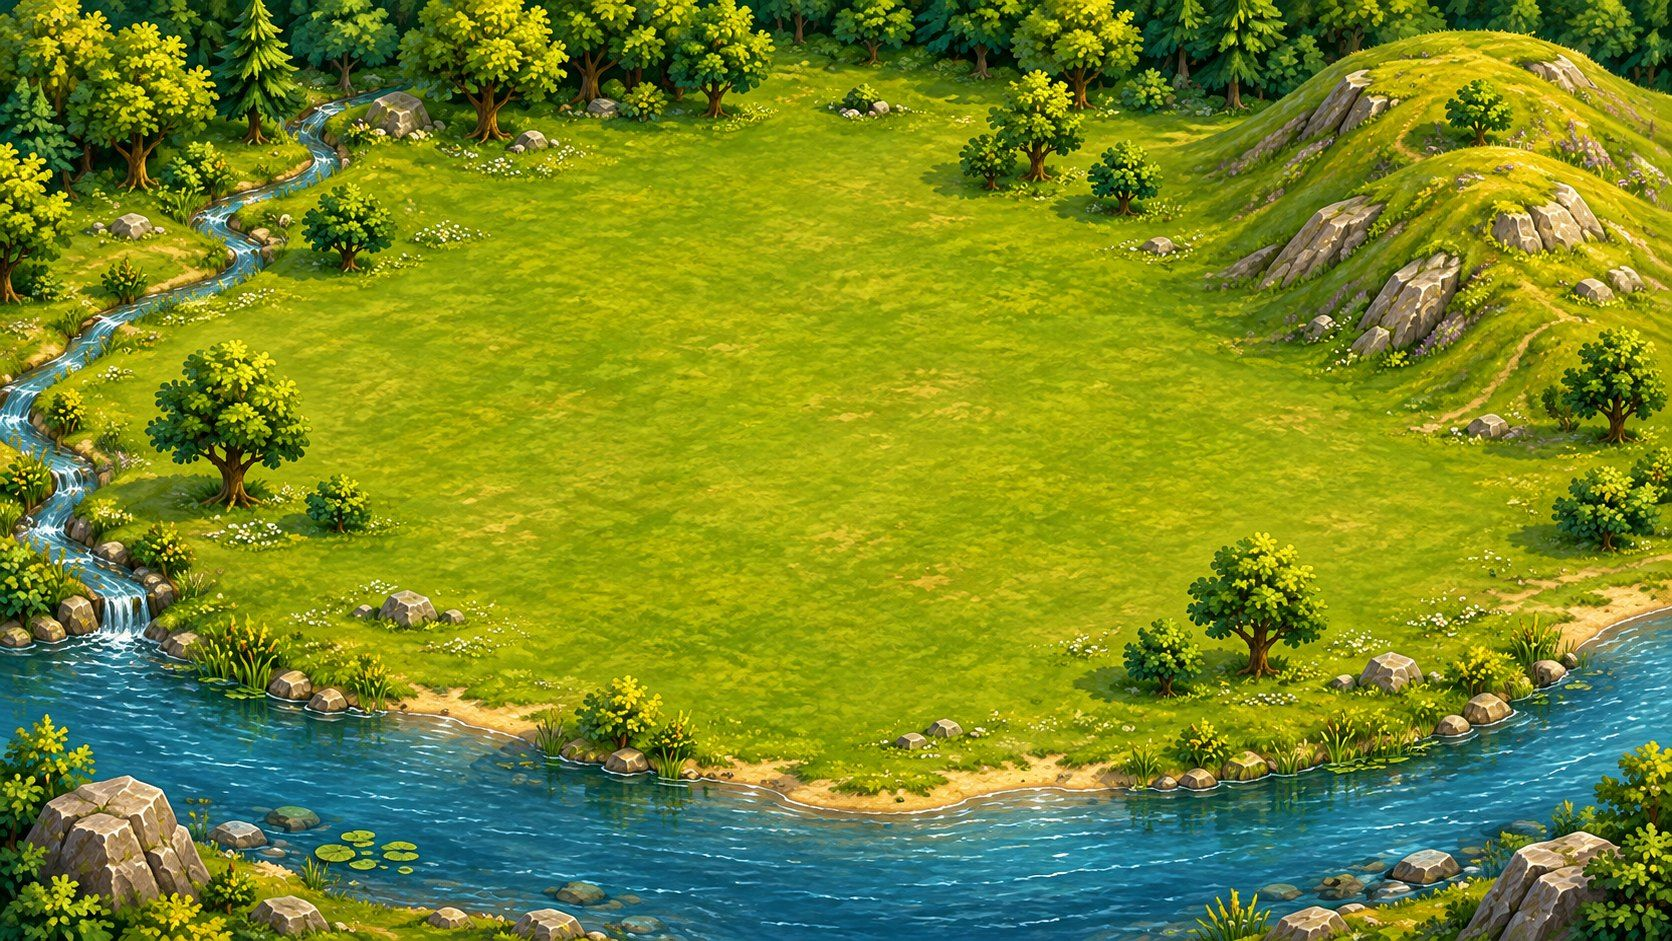
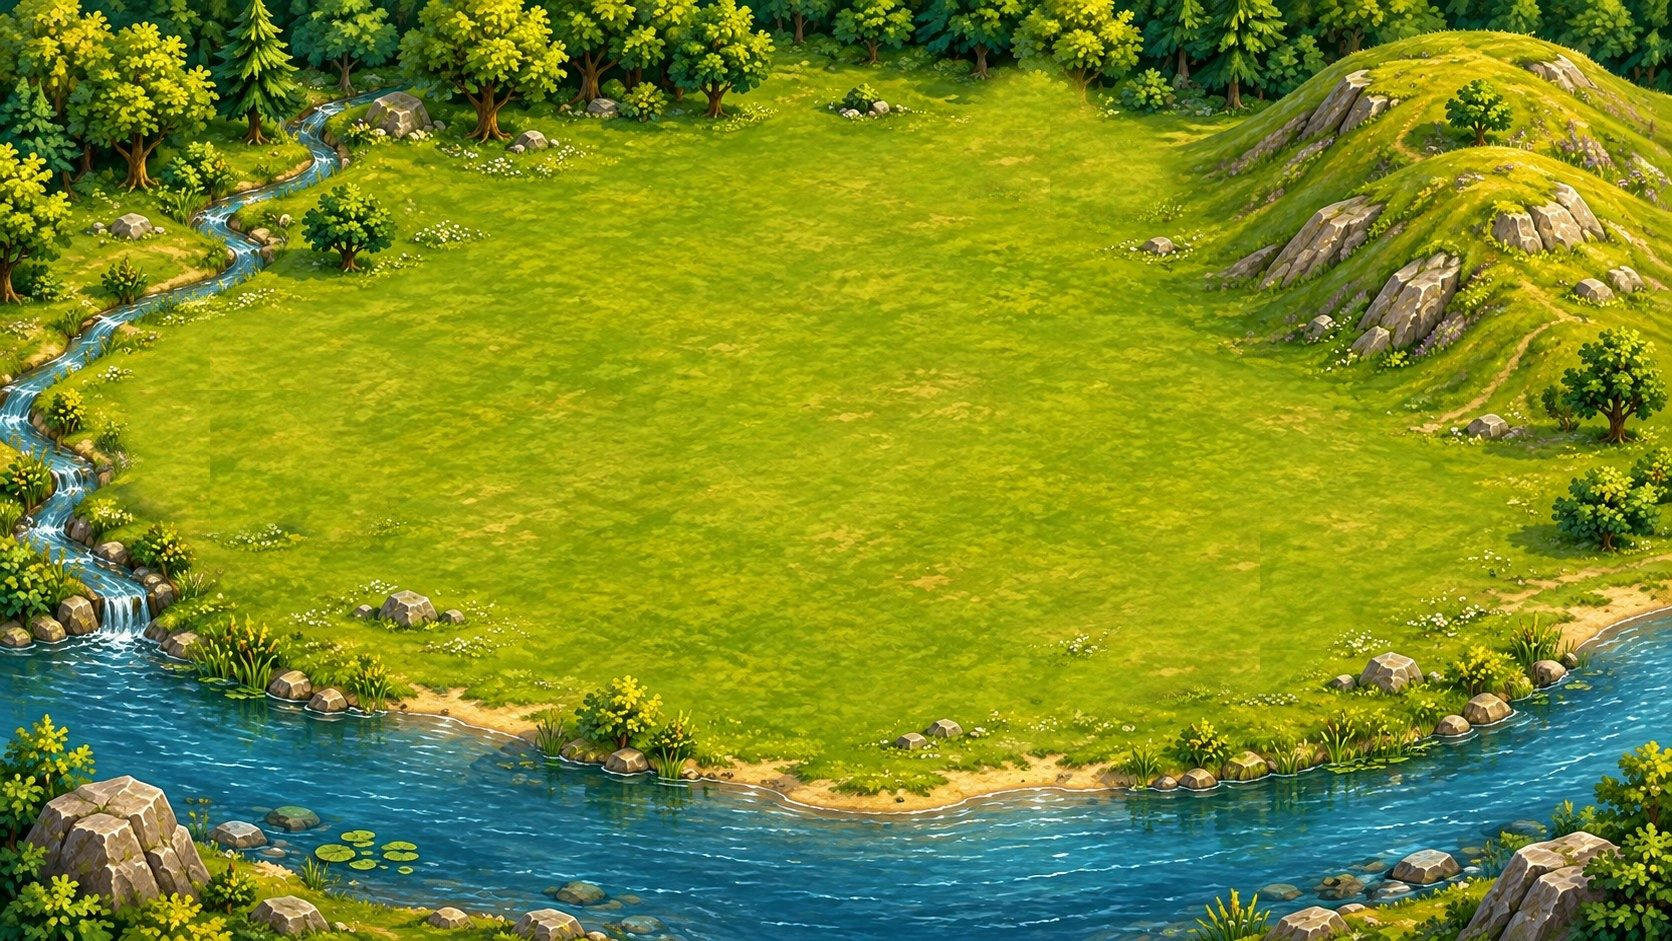
Épületek a talaj sarkához igazítva (nem vágja le a kerítést), fák kiszedve a 3. korszak telkéről, telek feljebb a folyótól
Claude-Session: https://claude.ai/code/session_01TrxMZhgVc5kkxwtpbvR8se

diff --git a/e03.html b/e03.html
@@ -429,7 +429,7 @@ const EN_DATA = {"res": {"penz": "Money", "termeny": "Food", "tudas": "Knowledge
 const tr = x => LANG === 'en' && EN[x] != null ? EN[x] : x;
 const trf = (x, ...a) => tr(x).replace(/\{(\d)\}/g, (_, i) => a[i]);
 // ---------- alapadatok ----------
-const BGW = 1672, BGH = 941, TW = 120, TH = 60, N = 12, OX = 836, OY = 120;
+const BGW = 1672, BGH = 941, TW = 120, TH = 60, N = 12, OX = 836, OY = 95;
 const SAVE_KEY = 'panelvar-e03-v1';
 const GRASS = 8; // ennyiszer lehet egy legelőt lelegeltetni, aztán kimerül
 const TERM_CAP = 1000, TUDAS_CAP = 30, TUDAS_EVERY = 30, WINTER_LEN = 24 * 3600;
@@ -680,7 +680,7 @@ function loadOne(n, tries = 0) {
     const im = new Image();
     im.onload = () => { if (im.naturalWidth) { IMG[n.replace(/\.(png|jpg|svg)$/, '')] = im; delete MASK[n.replace(/\.(png|jpg|svg)$/, '')]; roadCache = null; dirtPat = null; } res(); };
     im.onerror = () => { if (tries < 3) setTimeout(() => loadOne(n, tries + 1).then(res), 500 * (tries + 1)); else res(); };
-    im.src = 'img/' + n + '?v=2611082' + (tries ? '&r=' + tries + '-' + Date.now() : '');
+    im.src = 'img/' + n + '?v=2611083' + (tries ? '&r=' + tries + '-' + Date.now() : '');
   });
 }
 function loadImgs() { return Promise.all(imgNames.map(n => loadOne(n))); }
@@ -696,7 +696,12 @@ function maskFor(name) {
     let minX = c.width, maxX = 0;
     for (let px = 0; px < c.width; px++) for (let py = 0; py < c.height; py += 2) if (A(px, py)) { if (px < minX) minX = px; if (px > maxX) maxX = px; }
     const topIn = (x0, x1) => { let best = c.height; for (let px = x0; px <= x1; px++) for (let py = 0; py < c.height; py++) if (A(px, py)) { if (py < best) best = py; break; } return best; };
-    const lY = topIn(minX, Math.min(c.width - 1, minX + 3)), rY = topIn(Math.max(0, maxX - 3), maxX);
+    const lY0 = topIn(minX, Math.min(c.width - 1, minX + 3)), rY0 = topIn(Math.max(0, maxX - 3), maxX);
+    // a talaj sarkait az alsó kontúrból becsüljük, mert a sarkon álló kerítés vagy zászló felfelé húzná
+    const botAt = x => { for (let y = c.height - 1; y >= 0; y--) if (A(x, y)) return y; return -1; };
+    const est = (from, to, dir) => { const v = []; for (let x = from; x <= to; x++) { const b = botAt(x); if (b >= 0) v.push(b - 0.5 * (dir > 0 ? x - minX : maxX - x)); } v.sort((p, q) => p - q); return v.length > 6 ? v[v.length >> 1] : null; };
+    const span = maxX - minX, gl = est(minX + Math.round(span * 0.04), minX + Math.round(span * 0.22), 1), gr = est(maxX - Math.round(span * 0.22), maxX - Math.round(span * 0.04), -1);
+    const lY = gl != null ? gl : lY0, rY = gr != null ? gr : rY0;
     m.minX = minX; m.maxX = maxX; m.vY = (lY + rY) / 2; m.lY = lY; m.rY = rY;
   }
   MASK[name] = m; return m;
@@ -2881,7 +2886,7 @@ const SB_URL = 'https://eaeczgphpslppqyrnaos.supabase.co', SB_KEY = 'sb_publisha
 const ONLINE = /github\.io$/.test(location.hostname) || /[?&]online/.test(location.search);
 const NET = { on: false, sb: null, me: null, megye: null, real: [], names: {}, towns: {}, walls: {}, myWall: [] };
 window.__NET = NET;
-const ERA_MAP = [{ bg: 'alapterkep.jpg', ox: 836, oy: 212 }, { bg: 'e01_alapterkep.jpg', ox: 776, oy: 332 }, { bg: 'e02_alapterkep.jpg', ox: 776, oy: 305 }, { bg: 'e03_alapterkep.jpg', ox: 836, oy: 120, n: 12 }];
+const ERA_MAP = [{ bg: 'alapterkep.jpg', ox: 836, oy: 212 }, { bg: 'e01_alapterkep.jpg', ox: 776, oy: 332 }, { bg: 'e02_alapterkep.jpg', ox: 776, oy: 305 }, { bg: 'e03_alapterkep.jpg', ox: 836, oy: 95, n: 12 }];
 const SYNC_HASH = 'panelvar-sync-hash', SYNC_AT = 'panelvar-sync-at';
 const syncKeys = () => { const out = []; try { for (let k = 0; k < localStorage.length; k++) { const key = localStorage.key(k); if (/^panelvar-/.test(key) && !/^panelvar-sync-/.test(key) && key !== 'panelvar-lang') out.push(key); } } catch (e) {} return out; };
 const hashStr = s => { let h = 2166136261; for (let k = 0; k < s.length; k++) { h ^= s.charCodeAt(k); h = Math.imul(h, 16777619); } return (h >>> 0).toString(36) + ':' + s.length; };
@@ -3022,14 +3027,17 @@ async function netLoadWall(id) {
 }
 // egy másik játékos városának rajza, a saját korszakának térképén
 const RIMG = {};
-function rimg(name, cb) { if (RIMG[name]) { if (RIMG[name].complete) cb(RIMG[name]); else RIMG[name].addEventListener('load', () => cb(RIMG[name])); return; } const im = new Image(); im.onload = () => cb(im); im.src = 'img/' + name + '?v=2611082'; RIMG[name] = im; }
+function rimg(name, cb) { if (RIMG[name]) { if (RIMG[name].complete) cb(RIMG[name]); else RIMG[name].addEventListener('load', () => cb(RIMG[name])); return; } const im = new Image(); im.onload = () => cb(im); im.src = 'img/' + name + '?v=2611083'; RIMG[name] = im; }
 function rmask(im) {
   if (im._m) return im._m; const c = document.createElement('canvas'); c.width = im.naturalWidth; c.height = im.naturalHeight; const g = c.getContext('2d'); g.drawImage(im, 0, 0);
   let d = null; try { d = g.getImageData(0, 0, c.width, c.height).data; } catch (e) {}
   const m = { w: c.width, minX: 0, maxX: c.width, lY: c.height * .75, rY: c.height * .75 };
   if (d) { const A = (x, y) => d[(y * c.width + x) * 4 + 3] > 60; let mn = c.width, mx = 0; for (let x = 0; x < c.width; x++) for (let y = 0; y < c.height; y += 2) if (A(x, y)) { if (x < mn) mn = x; if (x > mx) mx = x; }
     const top = (x0, x1) => { let b = c.height; for (let x = x0; x <= x1; x++) for (let y = 0; y < c.height; y++) if (A(x, y)) { if (y < b) b = y; break; } return b; };
-    m.minX = mn; m.maxX = mx; m.lY = top(mn, Math.min(c.width - 1, mn + 3)); m.rY = top(Math.max(0, mx - 3), mx); }
+    m.minX = mn; m.maxX = mx; m.lY = top(mn, Math.min(c.width - 1, mn + 3)); m.rY = top(Math.max(0, mx - 3), mx);
+    const botAt = x => { for (let y = c.height - 1; y >= 0; y--) if (A(x, y)) return y; return -1; };
+    const est = (from, to, dir) => { const v = []; for (let x = from; x <= to; x++) { const b = botAt(x); if (b >= 0) v.push(b - 0.5 * (dir > 0 ? x - mn : mx - x)); } v.sort((p, q) => p - q); return v.length > 6 ? v[v.length >> 1] : null; };
+    const sp = mx - mn, gl = est(mn + Math.round(sp * 0.04), mn + Math.round(sp * 0.22), 1), gr = est(mx - Math.round(sp * 0.22), mx - Math.round(sp * 0.04), -1); if (gl != null) m.lY = gl; if (gr != null) m.rY = gr; }
   return (im._m = m);
 }
 function renderRemoteTown(cv, town) {

diff --git a/e02.html b/e02.html
@@ -652,7 +652,7 @@ function loadOne(n, tries = 0) {
     const im = new Image();
     im.onload = () => { if (im.naturalWidth) { IMG[n.replace(/\.(png|jpg|svg)$/, '')] = im; delete MASK[n.replace(/\.(png|jpg|svg)$/, '')]; roadCache = null; dirtPat = null; } res(); };
     im.onerror = () => { if (tries < 3) setTimeout(() => loadOne(n, tries + 1).then(res), 500 * (tries + 1)); else res(); };
-    im.src = 'img/' + n + '?v=2611082' + (tries ? '&r=' + tries + '-' + Date.now() : '');
+    im.src = 'img/' + n + '?v=2611083' + (tries ? '&r=' + tries + '-' + Date.now() : '');
   });
 }
 function loadImgs() { return Promise.all(imgNames.map(n => loadOne(n))); }
@@ -668,7 +668,12 @@ function maskFor(name) {
     let minX = c.width, maxX = 0;
     for (let px = 0; px < c.width; px++) for (let py = 0; py < c.height; py += 2) if (A(px, py)) { if (px < minX) minX = px; if (px > maxX) maxX = px; }
     const topIn = (x0, x1) => { let best = c.height; for (let px = x0; px <= x1; px++) for (let py = 0; py < c.height; py++) if (A(px, py)) { if (py < best) best = py; break; } return best; };
-    const lY = topIn(minX, Math.min(c.width - 1, minX + 3)), rY = topIn(Math.max(0, maxX - 3), maxX);
+    const lY0 = topIn(minX, Math.min(c.width - 1, minX + 3)), rY0 = topIn(Math.max(0, maxX - 3), maxX);
+    // a talaj sarkait az alsó kontúrból becsüljük, mert a sarkon álló kerítés vagy zászló felfelé húzná
+    const botAt = x => { for (let y = c.height - 1; y >= 0; y--) if (A(x, y)) return y; return -1; };
+    const est = (from, to, dir) => { const v = []; for (let x = from; x <= to; x++) { const b = botAt(x); if (b >= 0) v.push(b - 0.5 * (dir > 0 ? x - minX : maxX - x)); } v.sort((p, q) => p - q); return v.length > 6 ? v[v.length >> 1] : null; };
+    const span = maxX - minX, gl = est(minX + Math.round(span * 0.04), minX + Math.round(span * 0.22), 1), gr = est(maxX - Math.round(span * 0.22), maxX - Math.round(span * 0.04), -1);
+    const lY = gl != null ? gl : lY0, rY = gr != null ? gr : rY0;
     m.minX = minX; m.maxX = maxX; m.vY = (lY + rY) / 2; m.lY = lY; m.rY = rY;
   }
   MASK[name] = m; return m;
@@ -2800,7 +2805,7 @@ const SB_URL = 'https://eaeczgphpslppqyrnaos.supabase.co', SB_KEY = 'sb_publisha
 const ONLINE = /github\.io$/.test(location.hostname) || /[?&]online/.test(location.search);
 const NET = { on: false, sb: null, me: null, megye: null, real: [], names: {}, towns: {}, walls: {}, myWall: [] };
 window.__NET = NET;
-const ERA_MAP = [{ bg: 'alapterkep.jpg', ox: 836, oy: 212 }, { bg: 'e01_alapterkep.jpg', ox: 776, oy: 332 }, { bg: 'e02_alapterkep.jpg', ox: 776, oy: 305 }, { bg: 'e03_alapterkep.jpg', ox: 836, oy: 120, n: 12 }];
+const ERA_MAP = [{ bg: 'alapterkep.jpg', ox: 836, oy: 212 }, { bg: 'e01_alapterkep.jpg', ox: 776, oy: 332 }, { bg: 'e02_alapterkep.jpg', ox: 776, oy: 305 }, { bg: 'e03_alapterkep.jpg', ox: 836, oy: 95, n: 12 }];
 const SYNC_HASH = 'panelvar-sync-hash', SYNC_AT = 'panelvar-sync-at';
 const syncKeys = () => { const out = []; try { for (let k = 0; k < localStorage.length; k++) { const key = localStorage.key(k); if (/^panelvar-/.test(key) && !/^panelvar-sync-/.test(key) && key !== 'panelvar-lang') out.push(key); } } catch (e) {} return out; };
 const hashStr = s => { let h = 2166136261; for (let k = 0; k < s.length; k++) { h ^= s.charCodeAt(k); h = Math.imul(h, 16777619); } return (h >>> 0).toString(36) + ':' + s.length; };
@@ -2941,14 +2946,17 @@ async function netLoadWall(id) {
 }
 // egy másik játékos városának rajza, a saját korszakának térképén
 const RIMG = {};
-function rimg(name, cb) { if (RIMG[name]) { if (RIMG[name].complete) cb(RIMG[name]); else RIMG[name].addEventListener('load', () => cb(RIMG[name])); return; } const im = new Image(); im.onload = () => cb(im); im.src = 'img/' + name + '?v=2611082'; RIMG[name] = im; }
+function rimg(name, cb) { if (RIMG[name]) { if (RIMG[name].complete) cb(RIMG[name]); else RIMG[name].addEventListener('load', () => cb(RIMG[name])); return; } const im = new Image(); im.onload = () => cb(im); im.src = 'img/' + name + '?v=2611083'; RIMG[name] = im; }
 function rmask(im) {
   if (im._m) return im._m; const c = document.createElement('canvas'); c.width = im.naturalWidth; c.height = im.naturalHeight; const g = c.getContext('2d'); g.drawImage(im, 0, 0);
   let d = null; try { d = g.getImageData(0, 0, c.width, c.height).data; } catch (e) {}
   const m = { w: c.width, minX: 0, maxX: c.width, lY: c.height * .75, rY: c.height * .75 };
   if (d) { const A = (x, y) => d[(y * c.width + x) * 4 + 3] > 60; let mn = c.width, mx = 0; for (let x = 0; x < c.width; x++) for (let y = 0; y < c.height; y += 2) if (A(x, y)) { if (x < mn) mn = x; if (x > mx) mx = x; }
     const top = (x0, x1) => { let b = c.height; for (let x = x0; x <= x1; x++) for (let y = 0; y < c.height; y++) if (A(x, y)) { if (y < b) b = y; break; } return b; };
-    m.minX = mn; m.maxX = mx; m.lY = top(mn, Math.min(c.width - 1, mn + 3)); m.rY = top(Math.max(0, mx - 3), mx); }
+    m.minX = mn; m.maxX = mx; m.lY = top(mn, Math.min(c.width - 1, mn + 3)); m.rY = top(Math.max(0, mx - 3), mx);
+    const botAt = x => { for (let y = c.height - 1; y >= 0; y--) if (A(x, y)) return y; return -1; };
+    const est = (from, to, dir) => { const v = []; for (let x = from; x <= to; x++) { const b = botAt(x); if (b >= 0) v.push(b - 0.5 * (dir > 0 ? x - mn : mx - x)); } v.sort((p, q) => p - q); return v.length > 6 ? v[v.length >> 1] : null; };
+    const sp = mx - mn, gl = est(mn + Math.round(sp * 0.04), mn + Math.round(sp * 0.22), 1), gr = est(mx - Math.round(sp * 0.22), mx - Math.round(sp * 0.04), -1); if (gl != null) m.lY = gl; if (gr != null) m.rY = gr; }
   return (im._m = m);
 }
 function renderRemoteTown(cv, town) {

diff --git a/e01.html b/e01.html
@@ -641,7 +641,7 @@ function loadOne(n, tries = 0) {
     const im = new Image();
     im.onload = () => { if (im.naturalWidth) { IMG[n.replace(/\.(png|jpg|svg)$/, '')] = im; delete MASK[n.replace(/\.(png|jpg|svg)$/, '')]; roadCache = null; dirtPat = null; } res(); };
     im.onerror = () => { if (tries < 3) setTimeout(() => loadOne(n, tries + 1).then(res), 500 * (tries + 1)); else res(); };
-    im.src = 'img/' + n + '?v=2611082' + (tries ? '&r=' + tries + '-' + Date.now() : '');
+    im.src = 'img/' + n + '?v=2611083' + (tries ? '&r=' + tries + '-' + Date.now() : '');
   });
 }
 function loadImgs() { return Promise.all(imgNames.map(n => loadOne(n))); }
@@ -657,7 +657,12 @@ function maskFor(name) {
     let minX = c.width, maxX = 0;
     for (let px = 0; px < c.width; px++) for (let py = 0; py < c.height; py += 2) if (A(px, py)) { if (px < minX) minX = px; if (px > maxX) maxX = px; }
     const topIn = (x0, x1) => { let best = c.height; for (let px = x0; px <= x1; px++) for (let py = 0; py < c.height; py++) if (A(px, py)) { if (py < best) best = py; break; } return best; };
-    const lY = topIn(minX, Math.min(c.width - 1, minX + 3)), rY = topIn(Math.max(0, maxX - 3), maxX);
+    const lY0 = topIn(minX, Math.min(c.width - 1, minX + 3)), rY0 = topIn(Math.max(0, maxX - 3), maxX);
+    // a talaj sarkait az alsó kontúrból becsüljük, mert a sarkon álló kerítés vagy zászló felfelé húzná
+    const botAt = x => { for (let y = c.height - 1; y >= 0; y--) if (A(x, y)) return y; return -1; };
+    const est = (from, to, dir) => { const v = []; for (let x = from; x <= to; x++) { const b = botAt(x); if (b >= 0) v.push(b - 0.5 * (dir > 0 ? x - minX : maxX - x)); } v.sort((p, q) => p - q); return v.length > 6 ? v[v.length >> 1] : null; };
+    const span = maxX - minX, gl = est(minX + Math.round(span * 0.04), minX + Math.round(span * 0.22), 1), gr = est(maxX - Math.round(span * 0.22), maxX - Math.round(span * 0.04), -1);
+    const lY = gl != null ? gl : lY0, rY = gr != null ? gr : rY0;
     m.minX = minX; m.maxX = maxX; m.vY = (lY + rY) / 2;
   }
   MASK[name] = m; return m;
@@ -2627,7 +2632,7 @@ const SB_URL = 'https://eaeczgphpslppqyrnaos.supabase.co', SB_KEY = 'sb_publisha
 const ONLINE = /github\.io$/.test(location.hostname) || /[?&]online/.test(location.search);
 const NET = { on: false, sb: null, me: null, megye: null, real: [], names: {}, towns: {}, walls: {}, myWall: [] };
 window.__NET = NET;
-const ERA_MAP = [{ bg: 'alapterkep.jpg', ox: 836, oy: 212 }, { bg: 'e01_alapterkep.jpg', ox: 776, oy: 332 }, { bg: 'e02_alapterkep.jpg', ox: 776, oy: 305 }, { bg: 'e03_alapterkep.jpg', ox: 836, oy: 120, n: 12 }];
+const ERA_MAP = [{ bg: 'alapterkep.jpg', ox: 836, oy: 212 }, { bg: 'e01_alapterkep.jpg', ox: 776, oy: 332 }, { bg: 'e02_alapterkep.jpg', ox: 776, oy: 305 }, { bg: 'e03_alapterkep.jpg', ox: 836, oy: 95, n: 12 }];
 const SYNC_HASH = 'panelvar-sync-hash', SYNC_AT = 'panelvar-sync-at';
 const syncKeys = () => { const out = []; try { for (let k = 0; k < localStorage.length; k++) { const key = localStorage.key(k); if (/^panelvar-/.test(key) && !/^panelvar-sync-/.test(key) && key !== 'panelvar-lang') out.push(key); } } catch (e) {} return out; };
 const hashStr = s => { let h = 2166136261; for (let k = 0; k < s.length; k++) { h ^= s.charCodeAt(k); h = Math.imul(h, 16777619); } return (h >>> 0).toString(36) + ':' + s.length; };
@@ -2768,14 +2773,17 @@ async function netLoadWall(id) {
 }
 // egy másik játékos városának rajza, a saját korszakának térképén
 const RIMG = {};
-function rimg(name, cb) { if (RIMG[name]) { if (RIMG[name].complete) cb(RIMG[name]); else RIMG[name].addEventListener('load', () => cb(RIMG[name])); return; } const im = new Image(); im.onload = () => cb(im); im.src = 'img/' + name + '?v=2611082'; RIMG[name] = im; }
+function rimg(name, cb) { if (RIMG[name]) { if (RIMG[name].complete) cb(RIMG[name]); else RIMG[name].addEventListener('load', () => cb(RIMG[name])); return; } const im = new Image(); im.onload = () => cb(im); im.src = 'img/' + name + '?v=2611083'; RIMG[name] = im; }
 function rmask(im) {
   if (im._m) return im._m; const c = document.createElement('canvas'); c.width = im.naturalWidth; c.height = im.naturalHeight; const g = c.getContext('2d'); g.drawImage(im, 0, 0);
   let d = null; try { d = g.getImageData(0, 0, c.width, c.height).data; } catch (e) {}
   const m = { w: c.width, minX: 0, maxX: c.width, lY: c.height * .75, rY: c.height * .75 };
   if (d) { const A = (x, y) => d[(y * c.width + x) * 4 + 3] > 60; let mn = c.width, mx = 0; for (let x = 0; x < c.width; x++) for (let y = 0; y < c.height; y += 2) if (A(x, y)) { if (x < mn) mn = x; if (x > mx) mx = x; }
     const top = (x0, x1) => { let b = c.height; for (let x = x0; x <= x1; x++) for (let y = 0; y < c.height; y++) if (A(x, y)) { if (y < b) b = y; break; } return b; };
-    m.minX = mn; m.maxX = mx; m.lY = top(mn, Math.min(c.width - 1, mn + 3)); m.rY = top(Math.max(0, mx - 3), mx); }
+    m.minX = mn; m.maxX = mx; m.lY = top(mn, Math.min(c.width - 1, mn + 3)); m.rY = top(Math.max(0, mx - 3), mx);
+    const botAt = x => { for (let y = c.height - 1; y >= 0; y--) if (A(x, y)) return y; return -1; };
+    const est = (from, to, dir) => { const v = []; for (let x = from; x <= to; x++) { const b = botAt(x); if (b >= 0) v.push(b - 0.5 * (dir > 0 ? x - mn : mx - x)); } v.sort((p, q) => p - q); return v.length > 6 ? v[v.length >> 1] : null; };
+    const sp = mx - mn, gl = est(mn + Math.round(sp * 0.04), mn + Math.round(sp * 0.22), 1), gr = est(mx - Math.round(sp * 0.22), mx - Math.round(sp * 0.04), -1); if (gl != null) m.lY = gl; if (gr != null) m.rY = gr; }
   return (im._m = m);
 }
 function renderRemoteTown(cv, town) {

diff --git a/index.html b/index.html
@@ -557,7 +557,7 @@ function loadOne(n, tries = 0) {
     const im = new Image();
     im.onload = () => { if (im.naturalWidth) { IMG[n.replace(/\.(png|jpg|svg)$/, '')] = im; delete MASK[n.replace(/\.(png|jpg|svg)$/, '')]; roadCache = null; dirtPat = null; } res(); };
     im.onerror = () => { if (tries < 3) setTimeout(() => loadOne(n, tries + 1).then(res), 500 * (tries + 1)); else res(); };
-    im.src = 'img/' + n + '?v=2611082' + (tries ? '&r=' + tries + '-' + Date.now() : '');
+    im.src = 'img/' + n + '?v=2611083' + (tries ? '&r=' + tries + '-' + Date.now() : '');
   });
 }
 function loadImgs() { return Promise.all(imgNames.map(n => loadOne(n))); }
@@ -573,7 +573,12 @@ function maskFor(name) {
     let minX = c.width, maxX = 0;
     for (let px = 0; px < c.width; px++) for (let py = 0; py < c.height; py += 2) if (A(px, py)) { if (px < minX) minX = px; if (px > maxX) maxX = px; }
     const topIn = (x0, x1) => { let best = c.height; for (let px = x0; px <= x1; px++) for (let py = 0; py < c.height; py++) if (A(px, py)) { if (py < best) best = py; break; } return best; };
-    const lY = topIn(minX, Math.min(c.width - 1, minX + 3)), rY = topIn(Math.max(0, maxX - 3), maxX);
+    const lY0 = topIn(minX, Math.min(c.width - 1, minX + 3)), rY0 = topIn(Math.max(0, maxX - 3), maxX);
+    // a talaj sarkait az alsó kontúrból becsüljük, mert a sarkon álló kerítés vagy zászló felfelé húzná
+    const botAt = x => { for (let y = c.height - 1; y >= 0; y--) if (A(x, y)) return y; return -1; };
+    const est = (from, to, dir) => { const v = []; for (let x = from; x <= to; x++) { const b = botAt(x); if (b >= 0) v.push(b - 0.5 * (dir > 0 ? x - minX : maxX - x)); } v.sort((p, q) => p - q); return v.length > 6 ? v[v.length >> 1] : null; };
+    const span = maxX - minX, gl = est(minX + Math.round(span * 0.04), minX + Math.round(span * 0.22), 1), gr = est(maxX - Math.round(span * 0.22), maxX - Math.round(span * 0.04), -1);
+    const lY = gl != null ? gl : lY0, rY = gr != null ? gr : rY0;
     m.minX = minX; m.maxX = maxX; m.vY = (lY + rY) / 2;
   }
   MASK[name] = m; return m;
@@ -2105,7 +2110,7 @@ const SB_URL = 'https://eaeczgphpslppqyrnaos.supabase.co', SB_KEY = 'sb_publisha
 const ONLINE = /github\.io$/.test(location.hostname) || /[?&]online/.test(location.search);
 const NET = { on: false, sb: null, me: null, megye: null, real: [], names: {}, towns: {}, walls: {}, myWall: [] };
 window.__NET = NET;
-const ERA_MAP = [{ bg: 'alapterkep.jpg', ox: 836, oy: 212 }, { bg: 'e01_alapterkep.jpg', ox: 776, oy: 332 }, { bg: 'e02_alapterkep.jpg', ox: 776, oy: 305 }, { bg: 'e03_alapterkep.jpg', ox: 836, oy: 120, n: 12 }];
+const ERA_MAP = [{ bg: 'alapterkep.jpg', ox: 836, oy: 212 }, { bg: 'e01_alapterkep.jpg', ox: 776, oy: 332 }, { bg: 'e02_alapterkep.jpg', ox: 776, oy: 305 }, { bg: 'e03_alapterkep.jpg', ox: 836, oy: 95, n: 12 }];
 const SYNC_HASH = 'panelvar-sync-hash', SYNC_AT = 'panelvar-sync-at';
 const syncKeys = () => { const out = []; try { for (let k = 0; k < localStorage.length; k++) { const key = localStorage.key(k); if (/^panelvar-/.test(key) && !/^panelvar-sync-/.test(key) && key !== 'panelvar-lang') out.push(key); } } catch (e) {} return out; };
 const hashStr = s => { let h = 2166136261; for (let k = 0; k < s.length; k++) { h ^= s.charCodeAt(k); h = Math.imul(h, 16777619); } return (h >>> 0).toString(36) + ':' + s.length; };
@@ -2246,14 +2251,17 @@ async function netLoadWall(id) {
 }
 // egy másik játékos városának rajza, a saját korszakának térképén
 const RIMG = {};
-function rimg(name, cb) { if (RIMG[name]) { if (RIMG[name].complete) cb(RIMG[name]); else RIMG[name].addEventListener('load', () => cb(RIMG[name])); return; } const im = new Image(); im.onload = () => cb(im); im.src = 'img/' + name + '?v=2611082'; RIMG[name] = im; }
+function rimg(name, cb) { if (RIMG[name]) { if (RIMG[name].complete) cb(RIMG[name]); else RIMG[name].addEventListener('load', () => cb(RIMG[name])); return; } const im = new Image(); im.onload = () => cb(im); im.src = 'img/' + name + '?v=2611083'; RIMG[name] = im; }
 function rmask(im) {
   if (im._m) return im._m; const c = document.createElement('canvas'); c.width = im.naturalWidth; c.height = im.naturalHeight; const g = c.getContext('2d'); g.drawImage(im, 0, 0);
   let d = null; try { d = g.getImageData(0, 0, c.width, c.height).data; } catch (e) {}
   const m = { w: c.width, minX: 0, maxX: c.width, lY: c.height * .75, rY: c.height * .75 };
   if (d) { const A = (x, y) => d[(y * c.width + x) * 4 + 3] > 60; let mn = c.width, mx = 0; for (let x = 0; x < c.width; x++) for (let y = 0; y < c.height; y += 2) if (A(x, y)) { if (x < mn) mn = x; if (x > mx) mx = x; }
     const top = (x0, x1) => { let b = c.height; for (let x = x0; x <= x1; x++) for (let y = 0; y < c.height; y++) if (A(x, y)) { if (y < b) b = y; break; } return b; };
-    m.minX = mn; m.maxX = mx; m.lY = top(mn, Math.min(c.width - 1, mn + 3)); m.rY = top(Math.max(0, mx - 3), mx); }
+    m.minX = mn; m.maxX = mx; m.lY = top(mn, Math.min(c.width - 1, mn + 3)); m.rY = top(Math.max(0, mx - 3), mx);
+    const botAt = x => { for (let y = c.height - 1; y >= 0; y--) if (A(x, y)) return y; return -1; };
+    const est = (from, to, dir) => { const v = []; for (let x = from; x <= to; x++) { const b = botAt(x); if (b >= 0) v.push(b - 0.5 * (dir > 0 ? x - mn : mx - x)); } v.sort((p, q) => p - q); return v.length > 6 ? v[v.length >> 1] : null; };
+    const sp = mx - mn, gl = est(mn + Math.round(sp * 0.04), mn + Math.round(sp * 0.22), 1), gr = est(mx - Math.round(sp * 0.22), mx - Math.round(sp * 0.04), -1); if (gl != null) m.lY = gl; if (gr != null) m.rY = gr; }
   return (im._m = m);
 }
 function renderRemoteTown(cv, town) {
